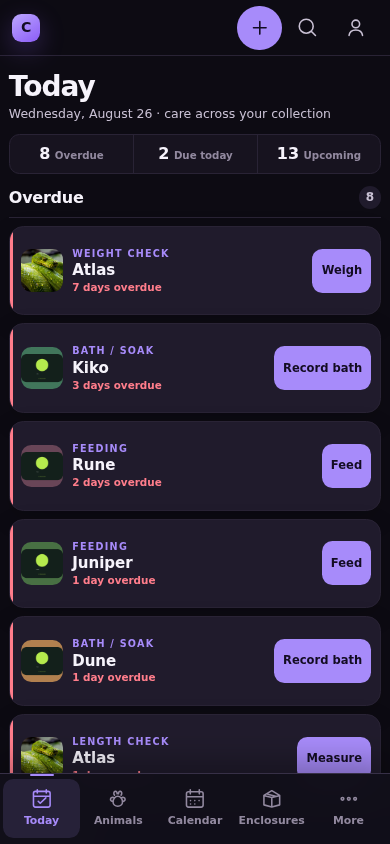
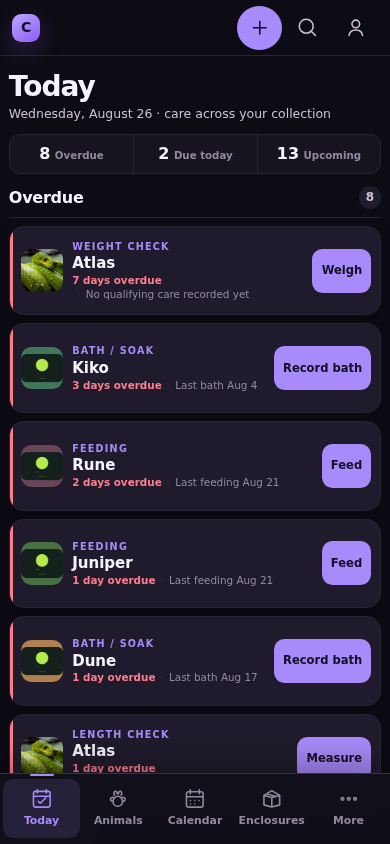
Preserve mobile Today care context

diff --git a/src/snaketracker/presentation/templates/home.html b/src/snaketracker/presentation/templates/home.html
@@ -21,7 +21,7 @@
       <ul class="today-list">
         {% for row in rows[:6] %}<li class="today-care-card status-edge-{{ key }}">
           {% if row.photo_attachment_version_id %}<img class="care-avatar" src="/attachments/{{ row.photo_attachment_version_id }}" alt="">{% else %}<span class="care-avatar care-avatar-placeholder fallback-{{ row.photo_fallback_key }}" aria-hidden="true">{{ row.subject_name[0]|upper }}</span>{% endif %}
-          <div class="today-care-copy"><p class="eyebrow">{{ row.title }}</p><h3><a href="{{ row.subject_url }}">{{ row.subject_name }}</a></h3><p class="care-context"><span class="due-language">{{ row.due_label }}</span><span>{{ row.last_context }}</span>{% if row.location_name %}<span>{{ row.location_name }}</span>{% endif %}</p></div>
+          <div class="today-care-copy"><p class="eyebrow">{{ row.title }}</p><h3><a href="{{ row.subject_url }}">{{ row.subject_name }}</a></h3><p class="care-context"><span class="due-language">{{ row.due_label }}</span><span>{{ row.last_context }}</span>{% if row.location_name %}<span class="care-location-inline">{{ row.location_name }}</span>{% endif %}</p></div>
           {% if row.action_url %}<a class="compact-action" href="{{ row.action_url }}">{{ row.action_label }}</a>{% endif %}
         </li>{% endfor %}
       </ul>

diff --git a/src/snaketracker/presentation/templates/base.html b/src/snaketracker/presentation/templates/base.html
@@ -6,7 +6,7 @@
     <meta name="viewport" content="width=device-width, initial-scale=1">
     <title>{% block title %}Care Keeper{% endblock %}</title>
     <link rel="icon" href="/static/favicon.svg" type="image/svg+xml">
-    <link rel="stylesheet" href="/static/app.css?v=m6-ux-pass21b">
+    <link rel="stylesheet" href="/static/app.css?v=m6-ux-pass21c">
     <link rel="manifest" href="/static/manifest.webmanifest">
     <meta name="theme-color" content="#100d18">
     <script defer src="/static/vendor/chart.js/chart.umd.min.js"></script>

diff --git a/src/snaketracker/presentation/static/app.css b/src/snaketracker/presentation/static/app.css
@@ -463,7 +463,7 @@ button.secondary:hover, .secondary-link:hover { border-color: var(--color-primar
   .care-avatar { width: 2.65rem; height: 2.65rem; }
   .today-care-copy h3 { font-size: .94rem; }
   .care-context { font-size: .65rem; }
-  .care-context span:last-child { display: none; }
+  .care-location-inline { display: none; }
   .compact-action { padding-inline: .58rem; font-size: .72rem; }
   .collection-summary-link { display: none; }
   .calendar-heading .lede, .more-heading .lede { display: none; }

diff --git a/src/snaketracker/presentation/static/service-worker.js b/src/snaketracker/presentation/static/service-worker.js
@@ -2,7 +2,7 @@
 
 const CACHE_PREFIX = "snaketracker-shell-";
 const CACHE = `${CACHE_PREFIX}v4`;
-const SHELL = ["/static/app.css?v=m6-ux-pass21b", "/static/favicon.svg", "/static/offline.html"];
+const SHELL = ["/static/app.css?v=m6-ux-pass21c", "/static/favicon.svg", "/static/offline.html"];
 self.addEventListener("install", (event) => event.waitUntil(caches.open(CACHE).then((cache) => cache.addAll(SHELL))));
 self.addEventListener("activate", (event) => event.waitUntil(
   caches.keys()

diff --git a/docs/evidence/m6-product-experience/owner-review/ux-pass21/README.md b/docs/evidence/m6-product-experience/owner-review/ux-pass21/README.md
@@ -47,7 +47,10 @@ The ten required final screenshots each passed axe WCAG 2.2 A/AA with zero viola
 CSS-only enclosure/filter refinement and asset cache-key update, the four affected Animals and
 Enclosures views were rerun and again produced zero axe violations, zero application console or
 page errors, zero same-origin request failures, and fully reachable filters. See
-[`qualification.json`](qualification.json) and [`affected-rerun.json`](affected-rerun.json).
+[`qualification.json`](qualification.json) and [`affected-rerun.json`](affected-rerun.json). A
+final Today-only selector correction was then verified at desktop/mobile with five visible mobile
+tasks, prior-care context present, zero visible schedule-provenance disclosures, and zero axe or
+application runtime findings; see [`today-rerun.json`](today-rerun.json).
 
 Care Keeper's origin response contains zero inline scripts and zero Cloudflare references. The
 public edge response adds an inline `__CF`/`cdn-cgi` loader, and Chromium also reports the injected
@@ -75,7 +78,7 @@ CSP violations involving Care Keeper-owned resources. No Cloudflare host, `unsaf
   versions. The isolated owner household remains 1 animal, 1 enclosure, 5 domain events, and zero
   attachment versions. No reset, reseed, or cross-household write occurred.
 - The promoted native ARM64 image is
-  `sha256:bc394f234a3a91f1dc04123891d36aeb3189449ec1179be85f0c9b797c0eeee8`.
+  `sha256:daca057c6c062294d636db2343316bf8644f6c54342a67298f90900277e4d42d`.
   Web and worker are healthy as UID/GID `1001:1001`, nginx is healthy, and exactly one
   `snaketracker` Compose project with three active services remains deployed.
 
